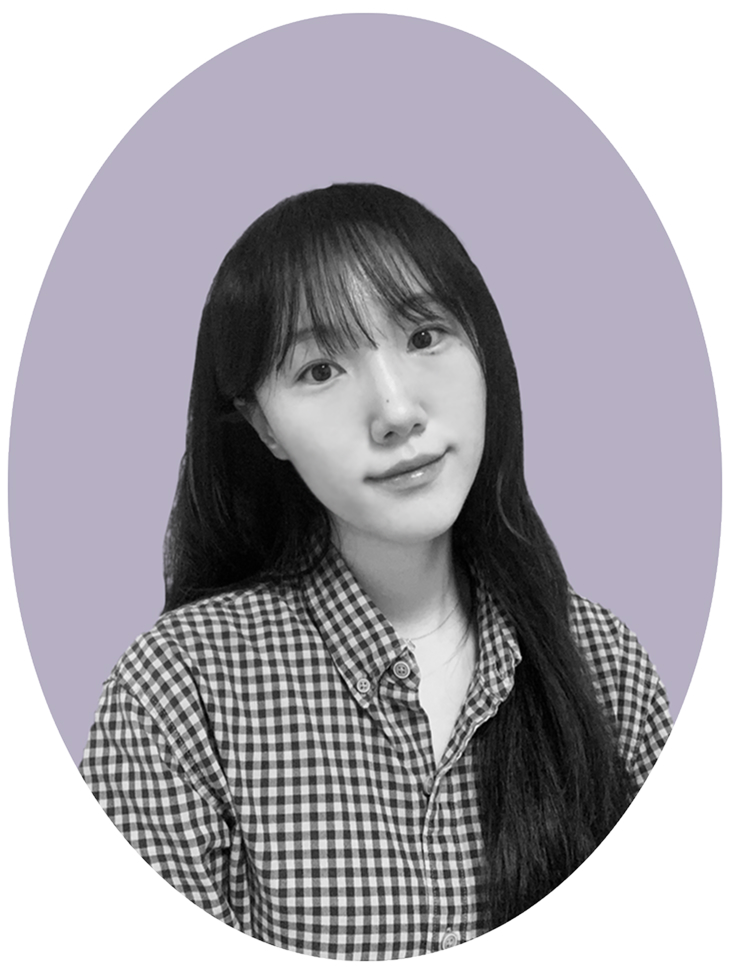
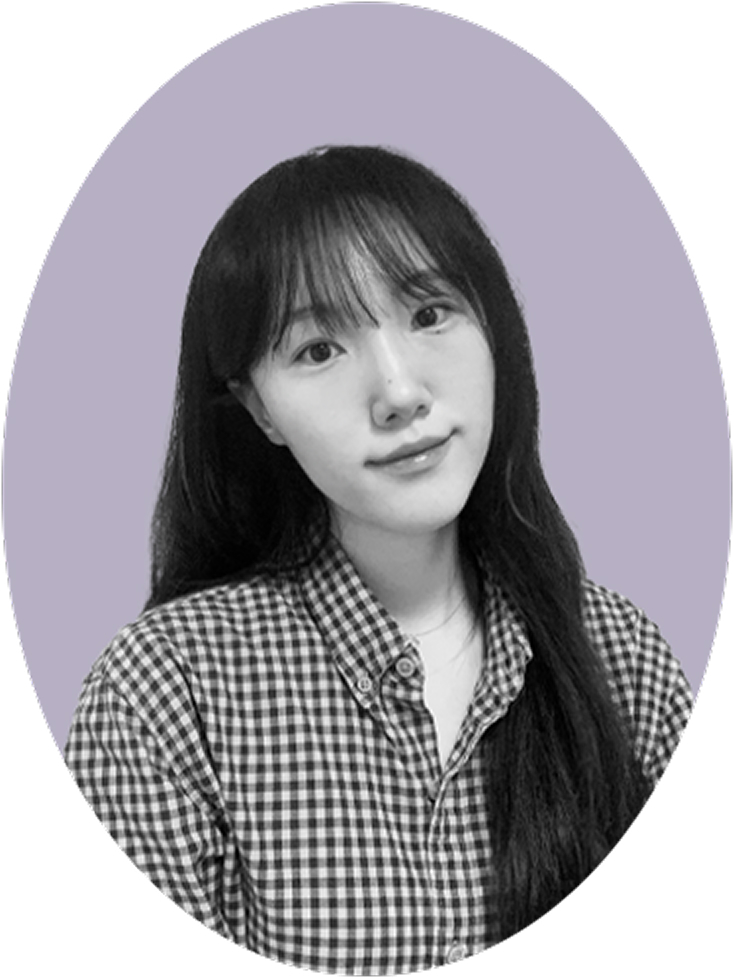
.

diff --git a/portfolio/css/main.css b/portfolio/css/main.css
@@ -134,7 +134,7 @@
     margin-right: 20px;
 }
 .accordion_wrap .accordion .conts .inner .profile .photo {
-    height: 487px;
+    height: 489px;
     overflow: hidden;
 }
 .accordion_wrap .accordion .conts .inner .profile .photo img {
